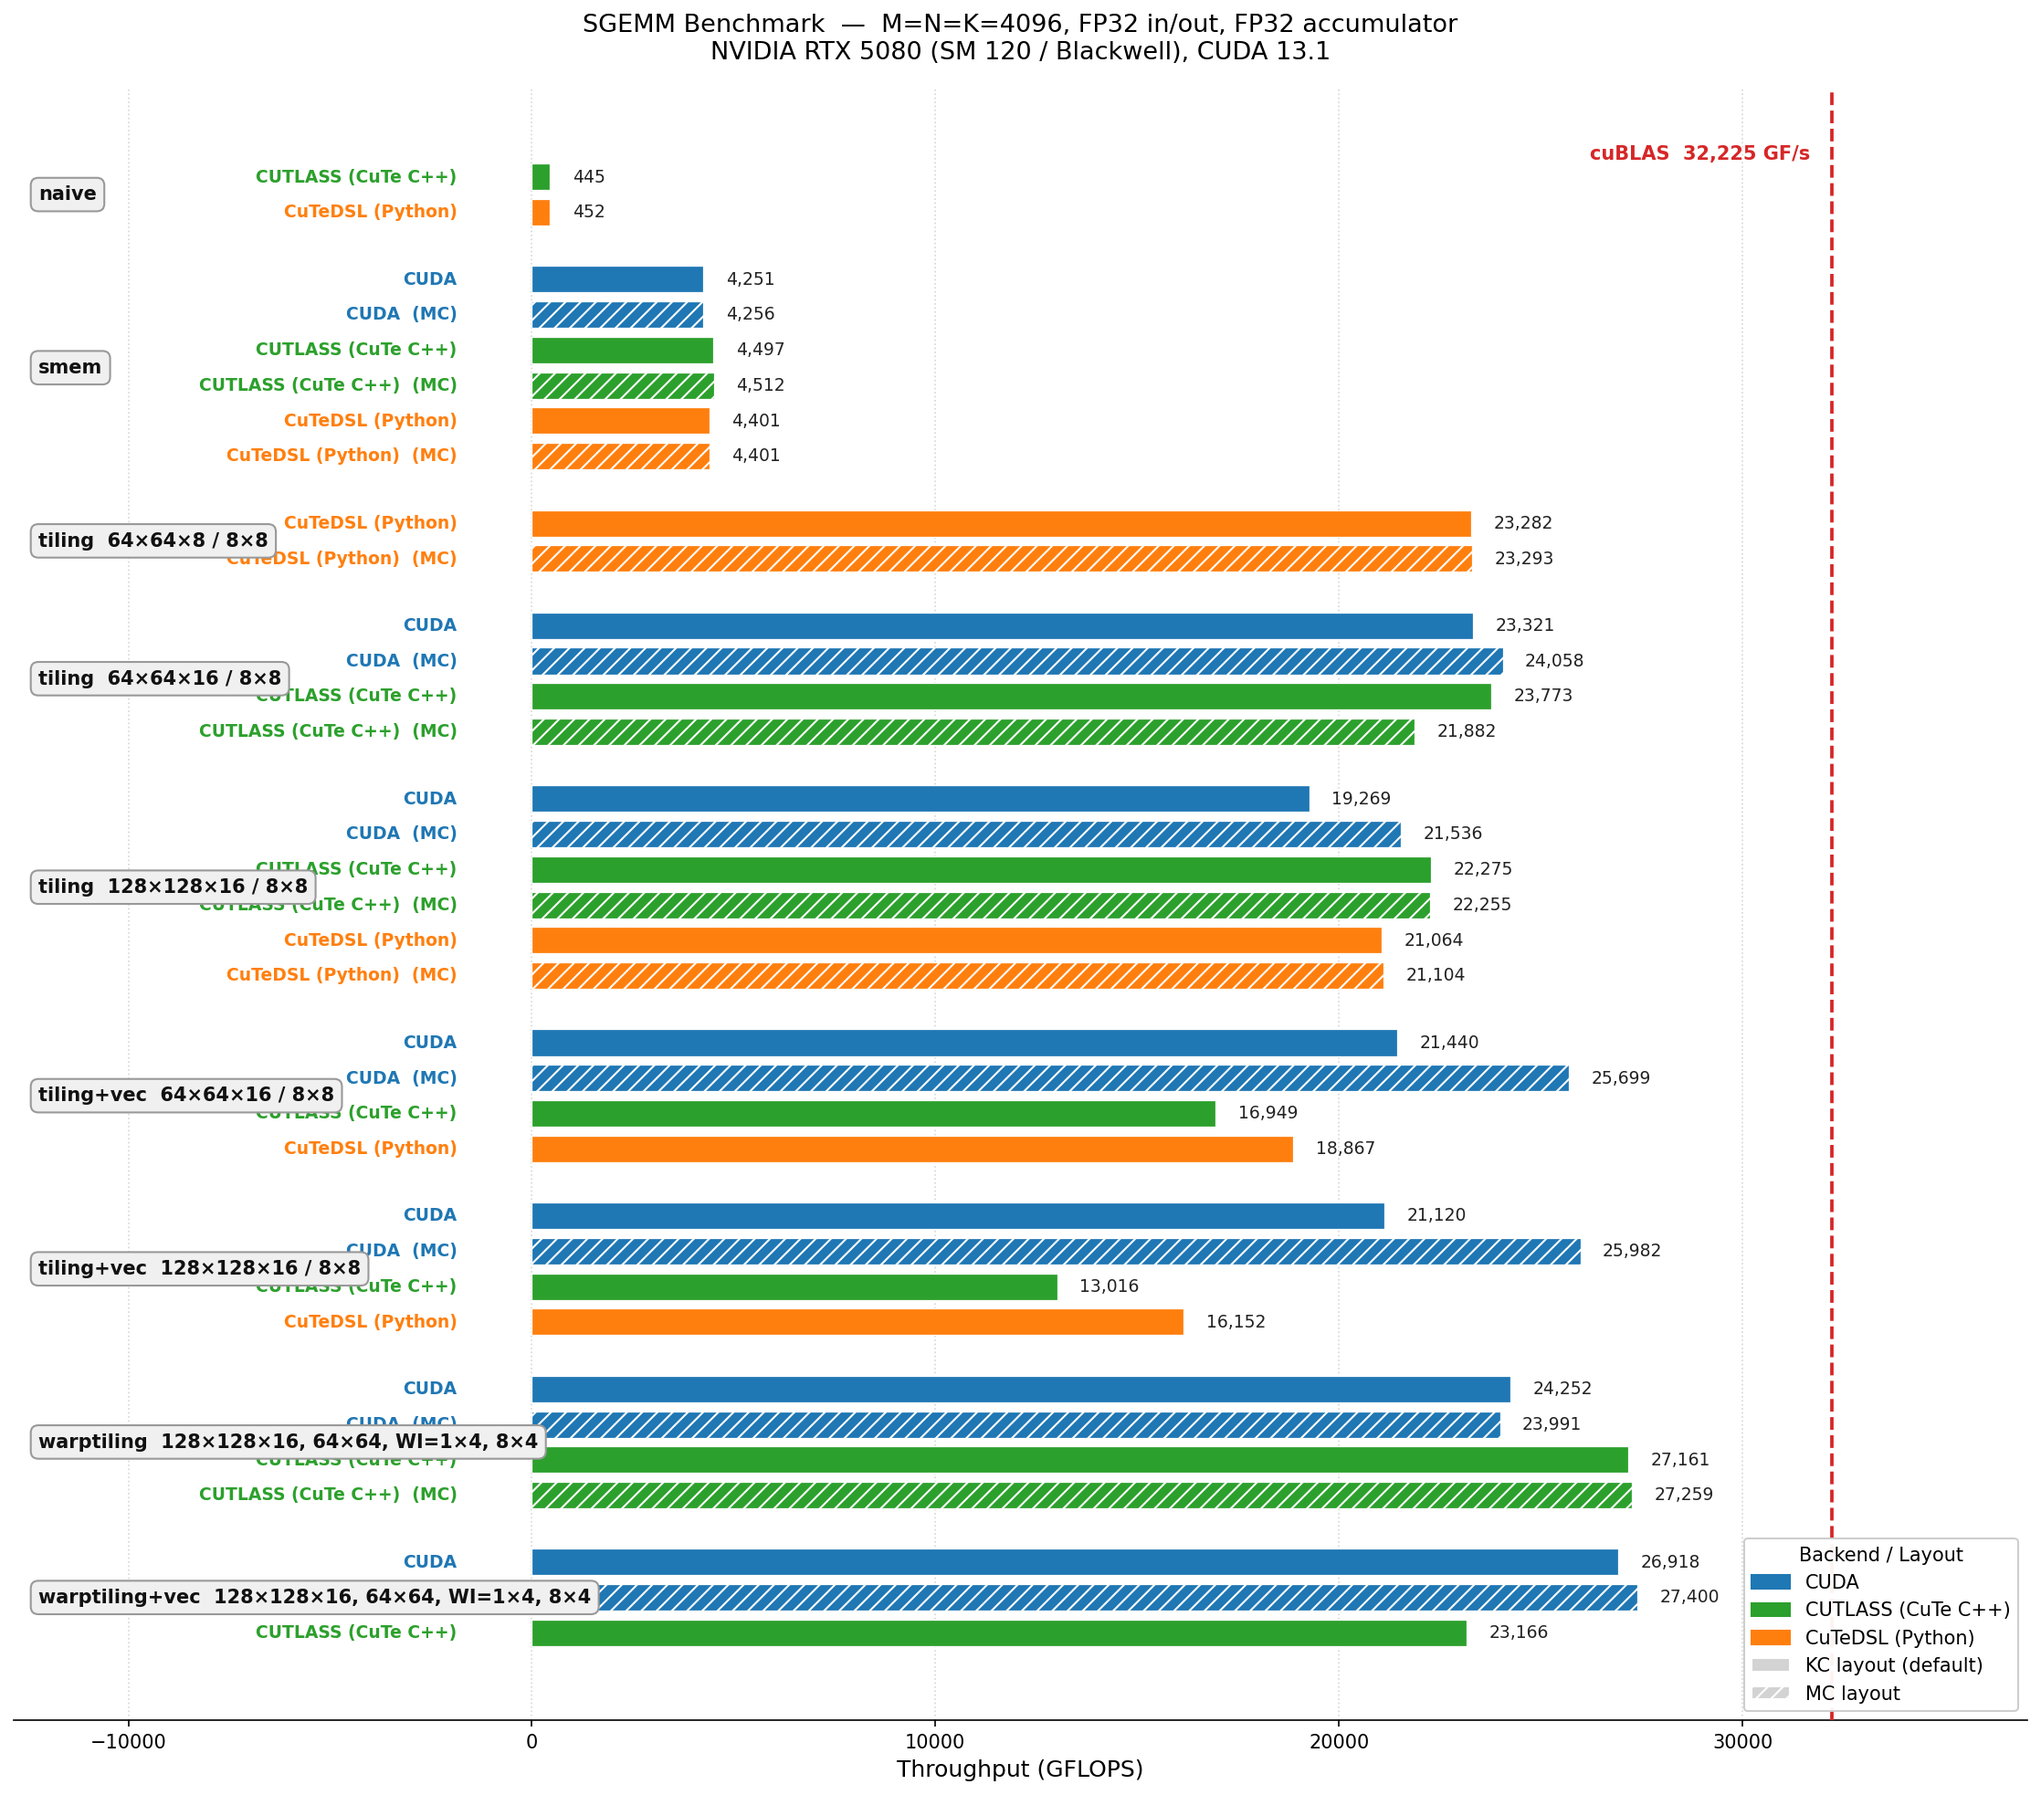
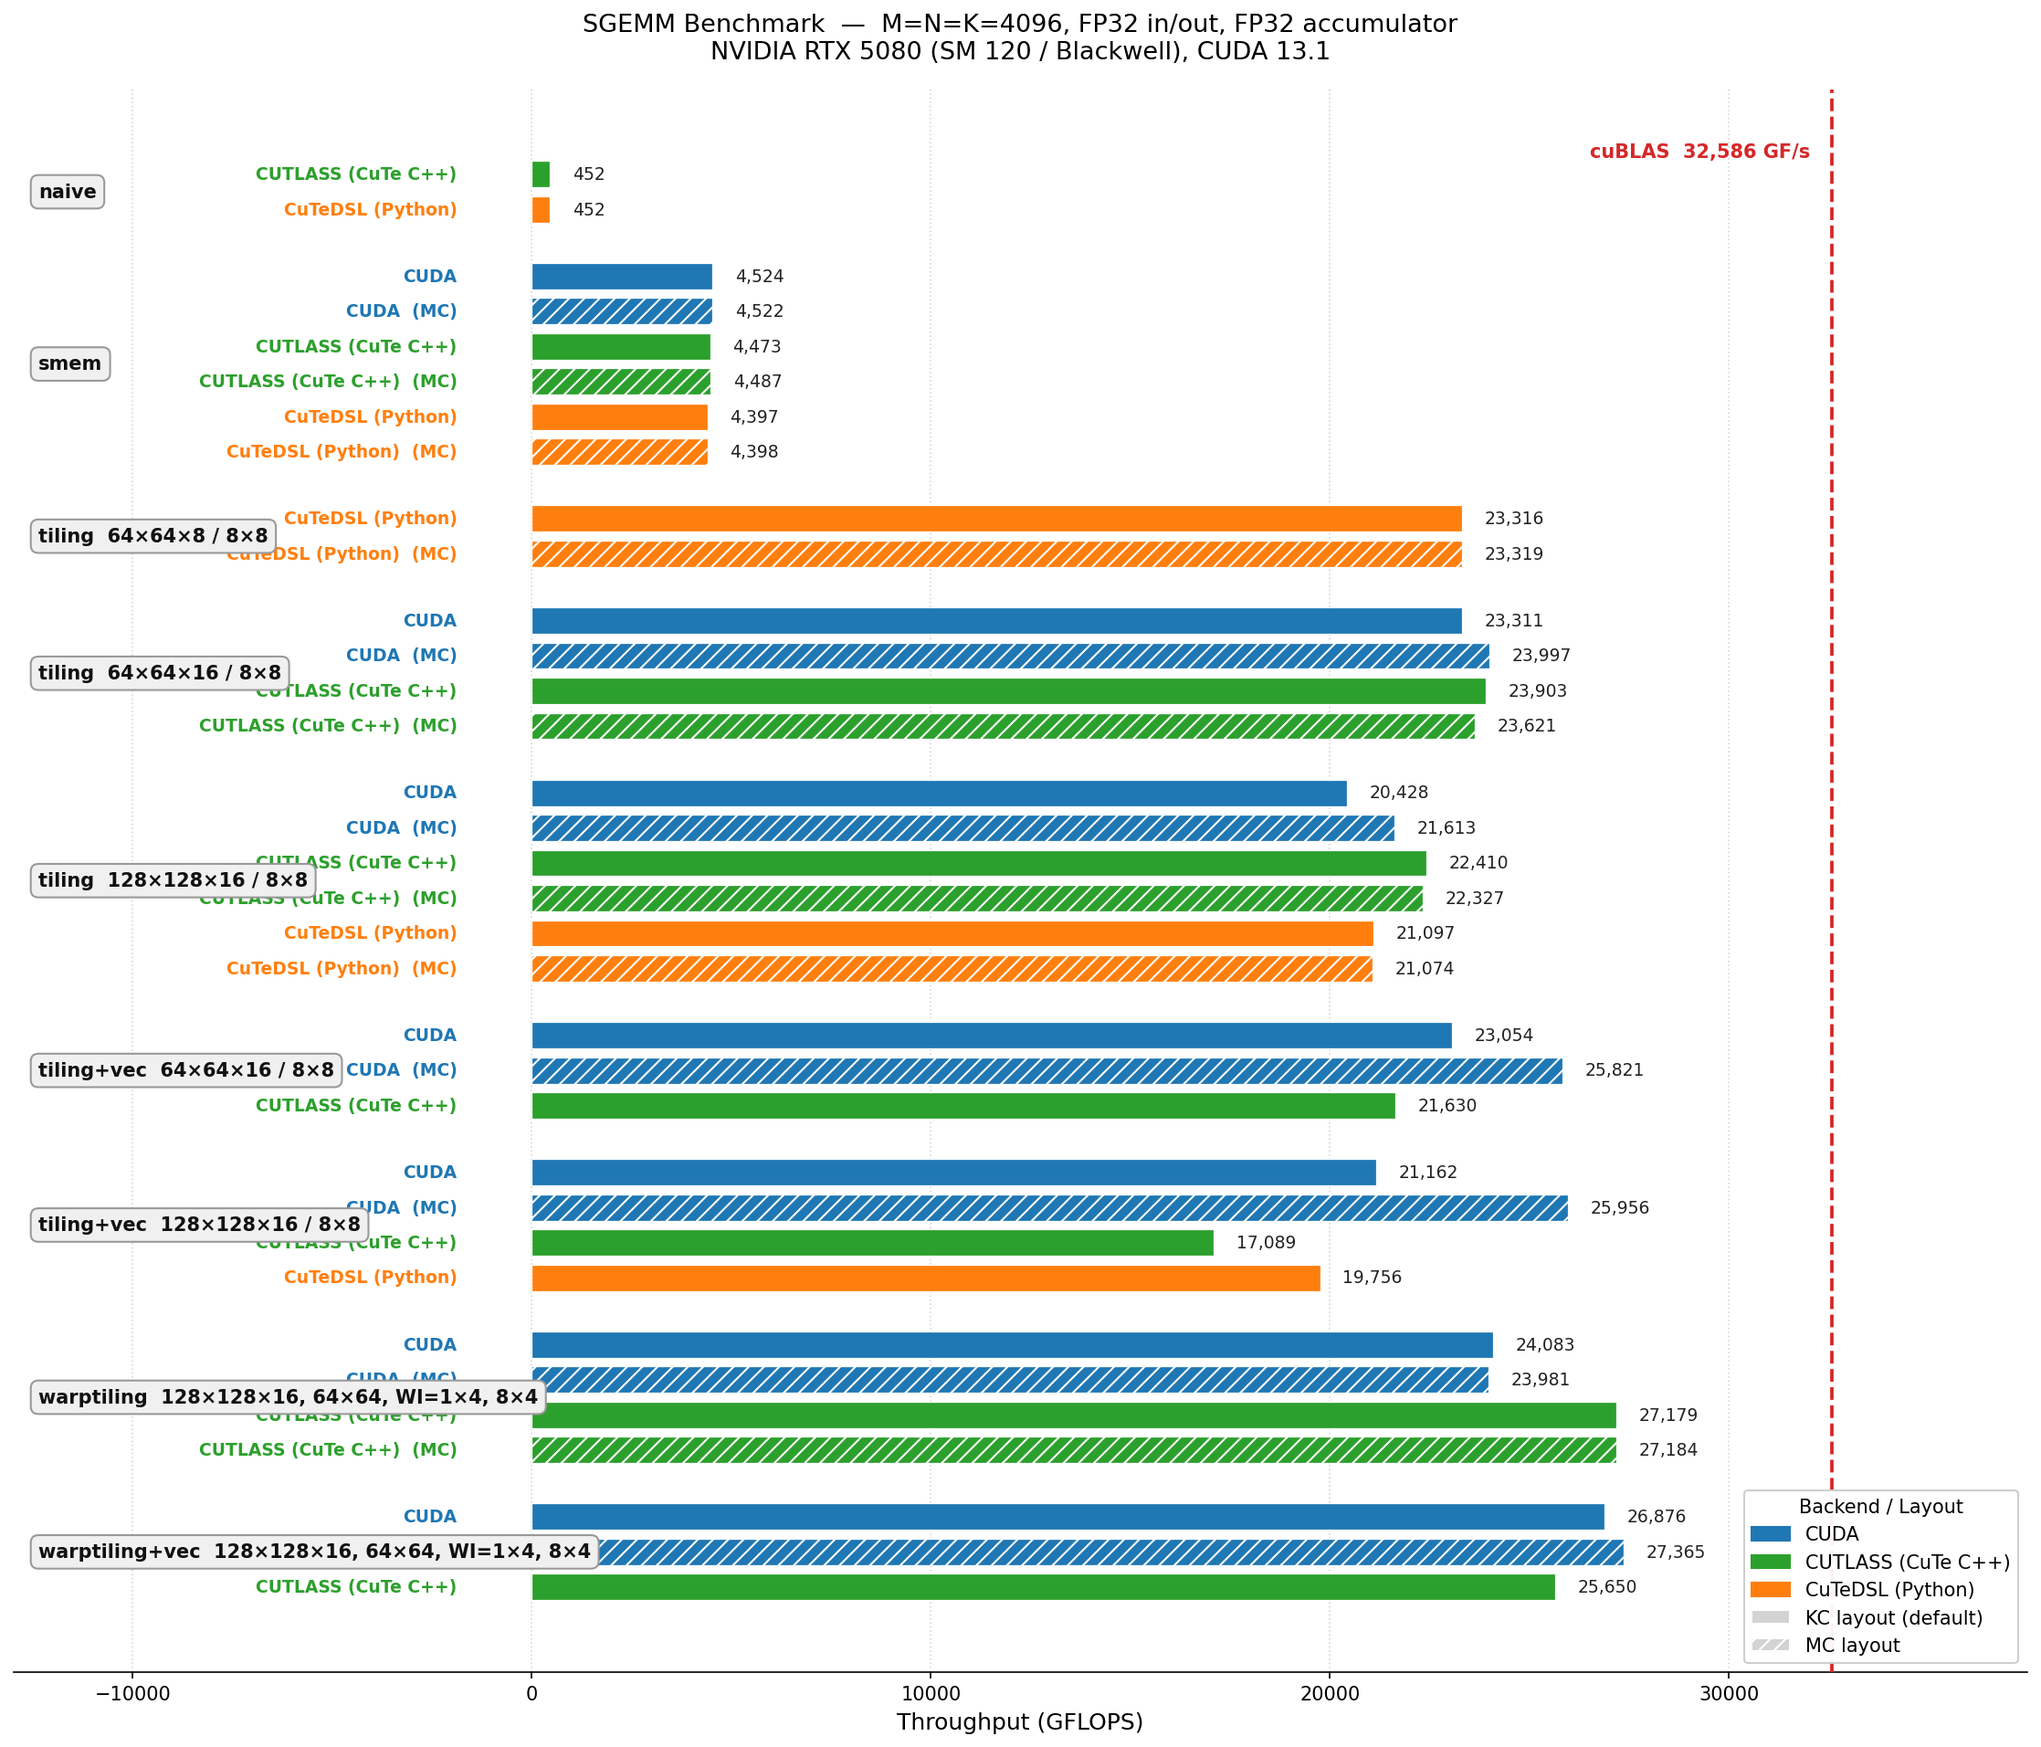
change base 2 swizzle to reduce bank conflict in vectorized tiling for cutlass

diff --git a/CuTeDSL/sgemm/sgemm_tiling_vectorize.py b/CuTeDSL/sgemm/sgemm_tiling_vectorize.py
@@ -1,18 +1,20 @@
 """
 Vectorize SGEMM using CuTe DSL (TN): D = alpha * A^T * B + beta * C
 
-Key difference from sgemm_tiling: 128-bit (float4) vectorized gmem→smem copies.
-Swizzle is omitted because Swizzle<B,0,S> (M=0) breaks 128-bit store alignment.
+128-bit (float4) vectorized gmem→smem copies, with a `Swizzle<B, 2, S>` XOR
+swizzle on sA. The M=2 offset leaves the low 2 bits of the flat index untouched,
+preserving 4-float alignment so 128-bit stores remain valid.
 
 No MC variant: A gmem is (M,K):(K,1) so K is contiguous, but MC smem has M
-contiguous — the layout mismatch prevents vectorized stores. Use sgemm_tiling
-with mc=True instead.
+contiguous — the layout mismatch prevents vectorized stores.
 
 A stored (K,M) col-major → CuTe (M,K):(K,1).
 B stored (K,N) col-major → CuTe (N,K):(K,1).
 C stored (M,N) col-major → CuTe (M,N):(1,M).
 Float32 in/out.
 """
+
+import math
 
 import cuda.bindings.driver as cuda_driver
 
@@ -56,8 +58,16 @@ class SgemmTilingVectorize:
         VEC = 4  # 128-bit / 32-bit = 4 floats
         BK_VEC = BK // VEC
 
-        # --- smem layouts: plain (no swizzle), K-contiguous (row-major) ---
-        sA_layout = cute.make_layout((BM, BK), stride=(BK, 1))
+        # --- sA smem: Swizzle<B,2,S> to preserve 128-bit alignment ---
+        atom_M = max(BK, Tm)
+        swz_M = 2                              # preserve low 2 bits (4-float alignment)
+        swz_B = int(math.log2(BK)) - swz_M     # remaining k-bits to XOR
+        swz_S = int(math.log2(atom_M))
+        assert swz_B > 0, "BK must be > VEC=4 for M=2 swizzle"
+        swizzle_atom = cute.make_composed_layout(
+            cute.make_swizzle(swz_B, swz_M, swz_S), 0,
+            cute.make_layout((atom_M, BK), stride=(BK, 1)))
+        sA_layout = cute.tile_to_shape(swizzle_atom, (BM, BK), (0, 1))
         sB_layout = cute.make_layout((BN, BK), stride=(BK, 1))
 
         # --- gmem→smem: vectorized 128-bit copies ---
@@ -116,7 +126,7 @@ class SgemmTilingVectorize:
         tiled_mma: cute.TiledMma,
         s2r_A: cute.TiledCopy,
         s2r_B: cute.TiledCopy,
-        sA_layout: cute.Layout,
+        sA_layout: cute.ComposedLayout,
         sB_layout: cute.Layout,
     ):
         BM, BN, BK = self._bm, self._bn, self._bk

diff --git a/CuTeDSL/sgemm/instantiate.py b/CuTeDSL/sgemm/instantiate.py
@@ -28,7 +28,7 @@ VARIANTS = {
     "tiling_mc_64x64x8x8x8":        (SgemmTiling, dict(bm=64, bn=64, bk=8, tm=8, tn=8, mc=True)),
     "tiling_mc_128x128x16x8x8":     (SgemmTiling, dict(bm=128, bn=128, bk=16, tm=8, tn=8, mc=True)),
 
-    # tiling_vectorize (128-bit g2s, no swizzle, no MC — see sgemm_tiling_vectorize.py)
-    "tiling_vectorize_64x64x16x8x8":       (SgemmTilingVectorize, dict(bm=64, bn=64, bk=16, tm=8, tn=8)),
+    # tiling_vectorize (128-bit g2s + Swizzle<B,2,S> on sA, no MC)
+    # 64x64 config disabled: trips NVIDIA/cutlass#3160 (swizzled ComposedLayout + CPY>1 tiling)
     "tiling_vectorize_128x128x16x8x8":     (SgemmTilingVectorize, dict(bm=128, bn=128, bk=16, tm=8, tn=8)),
 }

diff --git a/README.md b/README.md
@@ -12,7 +12,7 @@ SGEMM (and FlashAttention) kernels written three ways on an RTX 5080, benchmarke
 
 ![SGEMM benchmark at M=N=K=4096](bench_results/bench_sgemm_4096.png)
 
-Best kernels reach **~83% of cuBLAS** (25.9 / 31.3 TFLOPS). Highlights:
+Highlights:
 
 - **`warptiling` wins** — hierarchical warp→subtile→thread tiling is the main step up from register tiling.
 - **`warptiling_vec` is slower than `warptiling`** — vectorized 128-bit g2s copies force disabling the smem swizzle, and the resulting bank conflicts outweigh the bandwidth gain.
